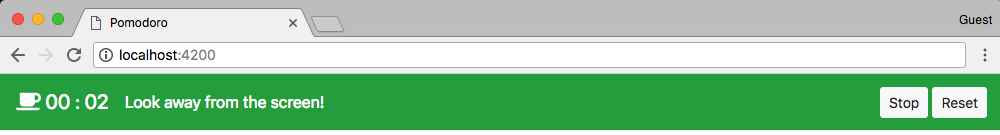
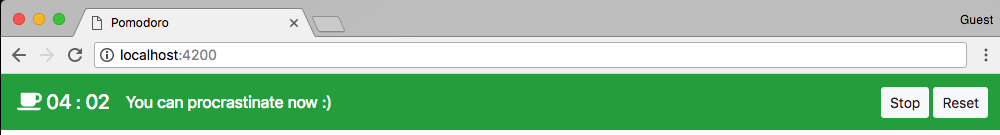
fixes

diff --git a/src/app/pomodoro/pomodoro.component.ts b/src/app/pomodoro/pomodoro.component.ts
@@ -53,7 +53,7 @@ export class PomodoroComponent implements OnInit {
         console.log(this.m);
         this.timeToWork = false;
         this.timeForBreak = true;
-        this.procrastinationTime = 'Look away from the screen!';
+        this.procrastinationTime = 'You can procrastinate now :)';
         this._document.getElementById('appFavicon').setAttribute('href', '/assets/icon/green.ico');
       }
     }

diff --git a/README.md b/README.md
@@ -2,7 +2,7 @@
 
 This is a simple Angular 2 project which will help you to be more productive and focus more on important things.
 
-You can find a working example of this module [here](http://bit.ly/2pF1iTV).
+You can find a working example of this module [here](http://bit.ly/2pCCm0l).
 
 ## What is Pomodoro?
 The Pomodoro technique is a personal time management method. The Pomodoro is coming out of scientific studies which suggest
